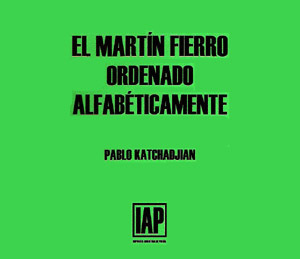
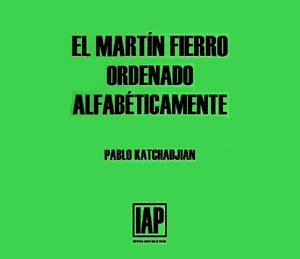
Upd

diff --git a/app.py b/app.py
@@ -10,103 +10,109 @@ st.set_page_config(
     layout="wide"
 )
 
-# CSS personalizado con paleta de colores verde (#1fea00) y negro
+# CSS personalizado con paleta de colores verde suave y negro
 st.markdown("""
 <style>
-    /* Color de fondo principal */
+    /* Color de fondo principal - verde suave */
     .stApp {
-        background-color: #000000;
+        background-color: #2d5016;
     }
     
-    /* Texto principal */
+    /* Texto principal - negro */
     .stMarkdown, p, span, div {
-        color: #1fea00 !important;
+        color: #000000 !important;
     }
     
-    /* Títulos */
+    /* Títulos - negro */
     h1, h2, h3, h4, h5, h6 {
-        color: #1fea00 !important;
+        color: #000000 !important;
     }
     
-    /* Botones */
+    /* Botones - verde más oscuro con texto negro */
     .stButton > button {
-        background-color: #1fea00;
+        background-color: #4a7c2c;
         color: #000000;
-        border: 2px solid #1fea00;
+        border: 2px solid #3d6623;
         font-weight: bold;
     }
     
     .stButton > button:hover {
-        background-color: #19c900;
-        border-color: #19c900;
+        background-color: #5a8c3c;
+        border-color: #4a7c2c;
     }
     
-    /* Inputs y text areas */
+    /* Inputs y text areas - fondo verde claro */
     .stTextInput > div > div > input,
     .stTextArea > div > div > textarea {
-        background-color: #0a0a0a;
-        color: #1fea00;
-        border: 1px solid #1fea00;
+        background-color: #3d6623;
+        color: #000000;
+        border: 1px solid #2d5016;
     }
     
-    /* Tabs */
+    /* Tabs - tonos verdes */
     .stTabs [data-baseweb="tab-list"] {
-        background-color: #000000;
+        background-color: #2d5016;
     }
     
     .stTabs [data-baseweb="tab"] {
-        color: #1fea00;
-        background-color: #0a0a0a;
-        border: 1px solid #1fea00;
+        color: #000000;
+        background-color: #3d6623;
+        border: 1px solid #2d5016;
     }
     
     .stTabs [aria-selected="true"] {
-        background-color: #1fea00;
+        background-color: #4a7c2c;
         color: #000000;
     }
     
-    /* Sidebar */
+    /* Sidebar - verde oscuro */
     [data-testid="stSidebar"] {
-        background-color: #0a0a0a;
+        background-color: #1f3a10;
     }
     
     /* Cajas de información */
     .stAlert {
-        background-color: #0a0a0a;
-        border: 1px solid #1fea00;
-        color: #1fea00;
+        background-color: #3d6623;
+        border: 1px solid #2d5016;
+        color: #000000;
     }
     
     /* Expanders */
     .streamlit-expanderHeader {
-        background-color: #0a0a0a;
-        color: #1fea00 !important;
-        border: 1px solid #1fea00;
+        background-color: #3d6623;
+        color: #000000 !important;
+        border: 1px solid #2d5016;
     }
     
     /* Checkboxes */
     .stCheckbox label {
-        color: #1fea00 !important;
+        color: #000000 !important;
     }
     
     /* File uploader */
     [data-testid="stFileUploader"] {
-        background-color: #0a0a0a;
-        border: 1px solid #1fea00;
+        background-color: #3d6623;
+        border: 1px solid #2d5016;
     }
     
     /* Métricas */
     [data-testid="stMetricValue"] {
-        color: #1fea00 !important;
+        color: #000000 !important;
     }
     
-    /* Links */
+    /* Links - verde más oscuro */
     a {
-        color: #1fea00 !important;
+        color: #1f3a10 !important;
+        font-weight: bold;
     }
     
     a:hover {
-        color: #19c900 !important;
+        color: #2d5016 !important;
+    }
+    
+    /* Spinner y elementos de carga */
+    .stSpinner > div {
+        border-top-color: #000000 !important;
     }
 </style>
 """, unsafe_allow_html=True)
@@ -125,9 +131,11 @@ Esta app busca hacer replicable y escalable el procedimiento de Katchadjian. Ord
 Se puede **cargar desde URL**, **subir un archivo** o **pegar el texto directamente**.
 """)
 
-# Imagen del Martín Fierro ordenado (cuando esté disponible)
+# Imagen del Martín Fierro ordenado
 try:
-    st.image("mf_ordenado.jpg", caption="Martín Fierro ordenado alfabéticamente - Pablo Katchadjian", use_container_width=True)
+    col_img1, col_img2, col_img3 = st.columns([1, 1, 1])
+    with col_img2:
+        st.image("mf_ordenado.jpg", caption="Martín Fierro ordenado alfabéticamente - Pablo Katchadjian", use_container_width=True)
 except:
     pass  # Si no está la imagen, no rompe la app
 
@@ -197,14 +205,14 @@ eliminar_guiones = st.sidebar.checkbox("Eliminar guiones", value=True)
 st.sidebar.markdown("---")
 st.sidebar.markdown("""
 ### 👨💻 Desarrollador
-<a href="https://gefero.github.io/" target="_blank" style="text-decoration: none; color: #1fea00;">
+<a href="https://gefero.github.io/" target="_blank" style="text-decoration: none; color: #000000;">
     <strong>gefero.github.io</strong>
 </a>
 """, unsafe_allow_html=True)
 
 st.sidebar.markdown("""
 ### 🏢 Institución
-<a href="https://factor-data.netlify.app/" target="_blank" style="text-decoration: none; color: #1fea00;">
+<a href="https://factor-data.netlify.app/" target="_blank" style="text-decoration: none; color: #000000;">
     <strong>factor~data EIDAES_UNSAM</strong>
 </a>
 """, unsafe_allow_html=True)
@@ -374,7 +382,7 @@ with col2:
     st.markdown("""
     <div style='text-align: center'>
         <p><small>Desarrollado por<br>
-        <strong><a href="https://gefero.github.io/" target="_blank" style="text-decoration: none; color: #1fea00;">gefero</a></strong><br>
-        <strong><a href="https://factor-data.netlify.app/" target="_blank" style="text-decoration: none; color: #1fea00;">factor~data EIDAES_UNSAM</a></strong></small></p>
+        <strong><a href="https://gefero.github.io/" target="_blank" style="text-decoration: none; color: #000000;">gefero</a></strong><br>
+        <strong><a href="https://factor-data.netlify.app/" target="_blank" style="text-decoration: none; color: #000000;">factor~data EIDAES_UNSAM</a></strong></small></p>
     </div>
     """, unsafe_allow_html=True)
